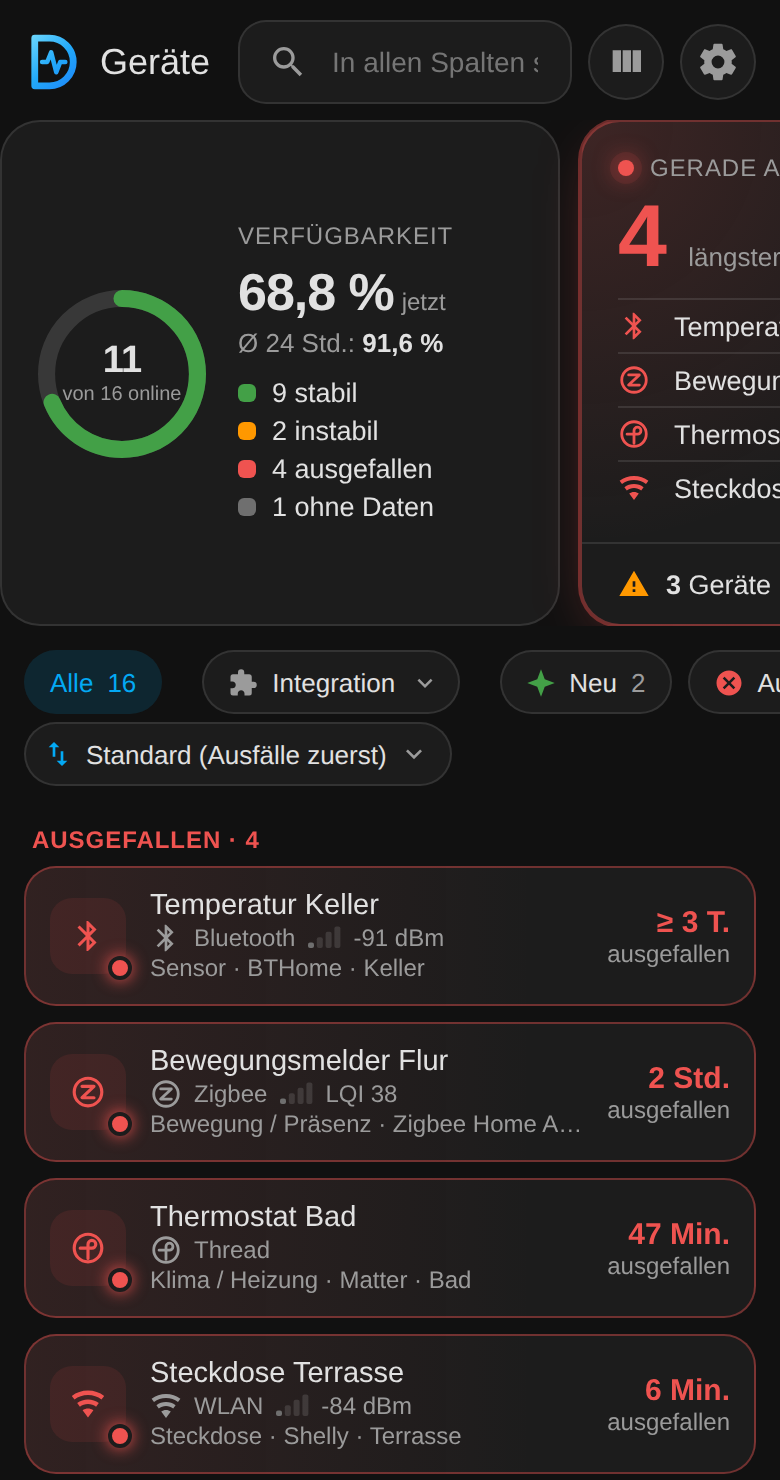
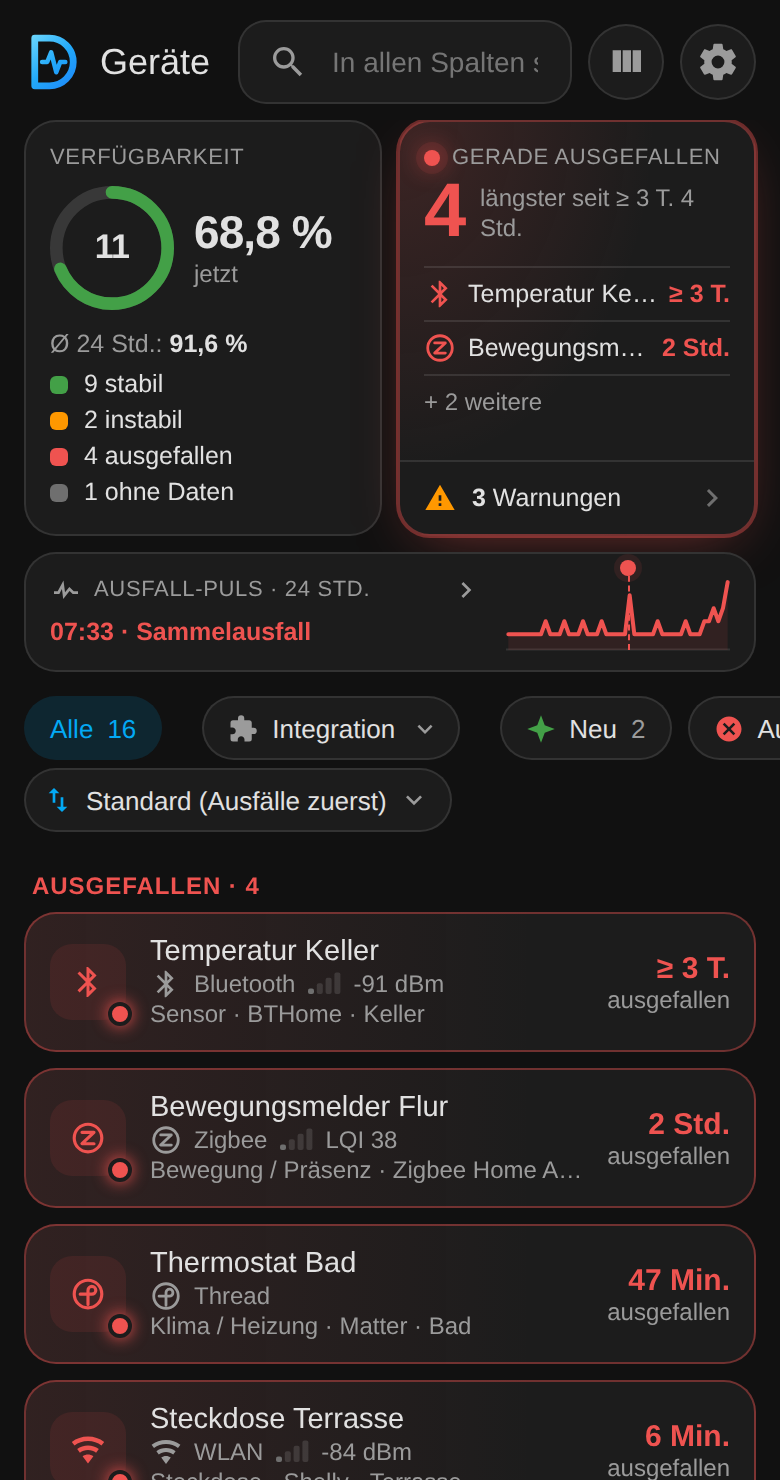
1.26.0: Kopf auf dem Handy, zwei Kacheln nebeneinander
- Bis 600 px Breite stehen "Verfügbarkeit" und "Gerade ausgefallen" kompakt
  nebeneinander (je die halbe Breite, auf dem iPhone 17 185 px), statt drei
  Kacheln zum Wischen (Mockup hero-mobile-v1, V2). Ring 62 px mit Prozentwert
  daneben, die zwei längsten Geräte mit "+ N weitere", kurze Warnzeile
  ("3 Warnungen"); Tablet und Desktop unverändert.
- Ausfall-Puls als schlanke Zeile (Titel, Titelzeile des Sammelausfalls,
  kleine Kurve); der volle Text des Sammelausfalls steht neu im Fenster
  "Unterbrüche in 24 Std." (bis 3, _incidentHtml).
- Tests: neue Suite hero-mobile-e2e.mjs (iPhone 17, 375 pt, Grenze 600/601 px);
  filter-e2e und warn-e2e angepasst; version-e2e tippt robust bei neu
  gezeichneter Update-Zeile. README-Bilder overview-mobile neu.
- manifest 1.26.0, PANEL_VERSION 75, CHANGELOG DE/EN, Docs.

Claude-Session: https://claude.ai/code/session_01U1q7hu4Br2u4E6fFdEJMgU

diff --git a/custom_components/device_panel/panel/device-panel.js b/custom_components/device_panel/panel/device-panel.js
@@ -2172,7 +2172,7 @@ class DevicePanel extends HTMLElement {
     }
     const line = (color, text) => `<div><i style="background:${color}"></i>${escape(text)}</div>`;
     const ring = `<div class="kt ring"><div class="ringwrap">${ringSvg(share, 108, 11)}<div class="c"><div><b>${online.length}</b><span>${escape(this._t("ofTotal", all.length))}</span></div></div></div>
-      <div><div class="k">${escape(this._t("availability"))}${this._scopeHtml()}</div><div class="pct${avgHtml ? " with-avg" : ""}">${pctHtml}</div>${avgHtml}
+      <div class="rtxt"><div class="k">${escape(this._t("availability"))}${this._scopeHtml()}</div><div class="pct${avgHtml ? " with-avg" : ""}">${pctHtml}</div>${avgHtml}
       <div class="lines">${line("var(--dp-success)", this._t("linesOnline", online.length - flaky))}
       ${flaky ? line("var(--dp-warning)", this._t("linesFlaky", flaky)) : ""}
       ${line("var(--dp-error)", this._t("linesOffline", offline.length))}
@@ -2181,13 +2181,14 @@ class DevicePanel extends HTMLElement {
     // viele Geräte eine Warnung haben; antippbar, setzt den Filter "Warnungen".
     const warn = all.filter(devWarn).length;
     const warnLine = warn
-      ? `<button type="button" class="kwarn" data-warn-open aria-label="${escape(this._t("warnOpen"))}"><span class="w-ic">${mdi("alert", 16)}</span><span><b>${warn}</b> ${escape(this._t("warnDevices", warn))}</span><span class="w-go">${mdi("chevronRight", 18)}</span></button>`
+      ? `<button type="button" class="kwarn" data-warn-open aria-label="${escape(this._t("warnOpen"))}"><span class="w-ic">${mdi("alert", 16)}</span><span><b>${warn}</b><span class="w-long"> ${escape(this._t("warnDevices", warn))}</span><span class="w-short"> ${escape(this._t("warnShort", warn))}</span></span><span class="w-go">${mdi("chevronRight", 18)}</span></button>`
       : `<div class="kwarn none"><span class="w-ic">${mdi("check", 16)}</span><span>${escape(this._t("warnNone"))}</span></div>`;
     const off = offline.length
       ? `<div class="kt err offl"><div class="k"><span class="pulse"></span>${escape(this._t("offlineNow"))}${this._scopeHtml()}</div>
         <div class="top"><span class="num">${offline.length}</span><span class="lbl">${escape(this._t("longest", `${offline[0].since_at_least ? "≥ " : ""}${this._duration(offline[0].offline_since)}`))}</span></div>
         <div class="olist">${offline.slice(0, 4).map((d) => `<button type="button" data-open="${escape(d.id)}"><span>${CONN[this._connOf(d)].icon(16)}</span><span class="name">${escape(d.name)}</span><b>${this._durationHtml(d, true)}</b></button>`).join("")}
-        ${offline.length > 4 ? `<div class="more">${escape(this._t("more", offline.length - 4))}</div>` : ""}</div>${warnLine}</div>`
+        ${offline.length > 4 ? `<div class="more more-long">${escape(this._t("more", offline.length - 4))}</div>` : ""}
+        ${offline.length > 2 ? `<div class="more more-short">${escape(this._t("more", offline.length - 2))}</div>` : ""}</div>${warnLine}</div>`
       : `<div class="kt offl"><div class="k">${escape(this._t("offlineNow"))}${this._scopeHtml()}</div>
         <div class="top"><span class="num ok">0</span><span class="lbl">${escape(this._t("allOnline"))}</span></div>
         <div class="durs">${escape(this._t("allOnlineSub"))}</div>${warnLine}</div>`;
@@ -2314,6 +2315,14 @@ class DevicePanel extends HTMLElement {
       <div class="pticks">${ticks}<span class="now-label">${escape(this._t("now"))}</span></div>`;
   }
 
+  // Hinweis auf einen Sammelausfall (mehrere Geräte fast gleichzeitig): in der Kachel
+  // und, seit 1.26.0, im Fenster "Unterbrüche in 24 Std." (auf dem Handy zeigt die
+  // schlanke Kachel nur die Titelzeile).
+  _incidentHtml(inc) {
+    const integ = inc.integration ? this._integrations[inc.integration] || inc.integration : null;
+    return `<div class="inc" title="${escape((inc.names || []).join(", "))}"><b>${escape(this._t("incidentTitle", this._fmtTime(inc.at)))}</b><span class="inc-text">${escape(this._t("incidentText", inc.count, integ))}</span></div>`;
+  }
+
   // Ausfall-Puls: Zahl der Geräte mit Unterbruch je 30 Min. über 24 Std.,
   // dazu der jüngste Sammelausfall (mehrere Geräte fast gleichzeitig).
   _pulseHtml(all) {
@@ -2325,8 +2334,7 @@ class DevicePanel extends HTMLElement {
     const affected = all.filter((d) => d.avail24?.outages).length;
     let note;
     if (inc) {
-      const integ = inc.integration ? this._integrations[inc.integration] || inc.integration : null;
-      note = `<div class="inc" title="${escape((inc.names || []).join(", "))}"><b>${escape(this._t("incidentTitle", this._fmtTime(inc.at)))}</b>${escape(this._t("incidentText", inc.count, integ))}</div>`;
+      note = this._incidentHtml(inc);
     } else if (outages) {
       note = `<div class="pnote plink">${escape(this._t("pulseSummary", outages, affected))}${mdi("chevron", 15)}</div>`;
     } else {
@@ -2407,7 +2415,7 @@ class DevicePanel extends HTMLElement {
     const html = `<div class="dlg-head stat-head"><span class="dlg-avatar">${mdi("pulse", 24)}</span>
         <div class="dlg-title"><h2>${escape(t("pulseWinTitle"))}</h2><div class="dlg-sub">${escape(sub + scope)}</div></div>
         <button type="button" class="dlg-close" data-pulse-close title="${escape(t("close"))}" aria-label="${escape(t("close"))}">${mdi("close", 18)}</button></div>
-      <div class="dlg-body"><div class="avail pwin">${this._pulseChartHtml(p, incidents, true, at)}</div>
+      <div class="dlg-body"><div class="avail pwin">${this._pulseChartHtml(p, incidents, true, at)}${incidents.slice(0, 3).map((inc) => this._incidentHtml(inc)).join("")}</div>
         <p class="dlg-note small">${escape(t("pulseWinHint"))}</p>${pick}
         <h3>${escape(t("pulseWinList"))}</h3>${rows ? `<div class="plist">${rows}</div>` : `<p class="dlg-note">${escape(t("pulseNone"))}</p>`}</div>
       <div class="dlg-actions"><button type="button" class="dlg-btn" data-pulse-close>${escape(t("close"))}</button></div>`;

diff --git a/custom_components/device_panel/panel/styles.js b/custom_components/device_panel/panel/styles.js
@@ -117,6 +117,8 @@ button.kwarn:focus-visible { outline: 2px solid var(--dp-primary); outline-offse
 .olist b { color: var(--dp-error); font-weight: 600; font-variant-numeric: tabular-nums; }
 .olist .name { white-space: nowrap; overflow: hidden; text-overflow: ellipsis; }
 .olist .more { color: var(--dp-text2); font-size: 12.5px; padding-top: 6px; border-top: 1px solid var(--dp-divider); }
+/* Kurzfassungen für das Handy (seit 1.26.0): nur dort sichtbar, siehe @media (max-width: 600px) */
+.olist .more-short, .kwarn .w-short { display: none; }
 
 /* Ausfall-Puls: Zahl der Geräte mit Unterbruch über 24 Std. */
 .kt.pul .k svg { color: var(--dp-text2); }
@@ -1010,16 +1012,48 @@ dialog.stat-dlg::backdrop { background: rgba(0,0,0,0.7); -webkit-backdrop-filter
   .toolbar { padding: 10px 12px 8px; gap: 8px; }
   .toolbar h1 { font-size: 18px; }
   .content { padding: 0 12px 12px; }
-  .hero { display: flex; overflow-x: auto; scroll-snap-type: x mandatory; gap: 10px; margin: 0 -12px; padding: 0 12px; scrollbar-width: none; }
-  .hero::-webkit-scrollbar { display: none; }
-  .hero .kt { min-width: 280px; scroll-snap-align: start; }
-  .hero .kt.pul { min-width: 300px; }
+  /* Kopf auf dem Handy (seit 1.26.0, docs/mockups/hero-mobile-v1, V2): "Verfügbarkeit" und
+     "Gerade ausgefallen" kompakt nebeneinander (je die halbe Breite, auf dem iPhone 17 185 px),
+     der Ausfall-Puls als schlanke Zeile darunter. */
+  .hero { grid-template-columns: repeat(2, minmax(0, 1fr)); gap: 8px; }
+  .hero .kt { padding: 12px; border-radius: 16px; }
+  .hero .kt .k { font-size: 11px; letter-spacing: .03em; gap: 6px; }
   .pchart { height: 64px; }
-  .kt.ring { grid-template-columns: 84px minmax(0, 1fr); }
-  .ringwrap { width: 84px; height: 84px; }
-  .ringwrap svg { width: 84px; height: 84px; }
-  .ringwrap .c b { font-size: 19px; }
-  .ringwrap .c span { font-size: 10px; max-width: 60px; }
+  /* Verfügbarkeit: Ring und Prozentwert nebeneinander, darunter Durchschnitt und Zeilen */
+  .kt.ring { grid-template-columns: 62px minmax(0, 1fr); gap: 0 10px; align-content: start; }
+  .kt.ring .rtxt { display: contents; }
+  .kt.ring .k { grid-column: 1 / -1; margin-bottom: 8px; }
+  .ringwrap { grid-column: 1; grid-row: 2; width: 62px; height: 62px; }
+  .ringwrap svg { width: 62px; height: 62px; }
+  .ringwrap .c b { font-size: 17px; }
+  .ringwrap .c span { display: none; }
+  .kt.ring .pct { grid-column: 2; grid-row: 2; margin: 0; font-size: 23px; line-height: 1.1; }
+  .kt.ring .pct small { display: block; margin: 2px 0 0; }
+  .kt.ring .pavg { grid-column: 1 / -1; margin: 10px 0 2px; font-size: 12.5px; }
+  .kt.ring .lines { grid-column: 1 / -1; margin-top: 2px; }
+  .kt.ring .lines div { font-size: 12.5px; }
+  /* Gerade ausgefallen: kleinere Zahl, die zwei längsten Geräte, kurze Warnzeile */
+  .kt.offl .top { margin: 2px 0 8px; gap: 8px; }
+  .kt.offl .top .num { font-size: 38px; }
+  .kt.offl .top .lbl { font-size: 12px; padding-bottom: 3px; line-height: 1.25; }
+  .kt.offl .durs { display: none; }
+  .kt.offl .olist { margin-bottom: 12px; }
+  .olist button { grid-template-columns: 16px minmax(0, 1fr) auto; gap: 6px; padding: 5px 0; font-size: 12.5px; }
+  .olist button:nth-child(n+3) { display: none; }
+  .olist .more-long { display: none; }
+  .olist .more-short { display: block; font-size: 12px; }
+  .kwarn { margin: auto -12px -12px; padding: 9px 12px; font-size: 12.5px; }
+  .kwarn .w-long { display: none; }
+  .kwarn .w-short { display: inline; }
+  /* Ausfall-Puls: schlanke Zeile mit Titel, Zusammenfassung (oder Titel des Sammelausfalls) und Kurve */
+  .hero .kt.pul { grid-column: 1 / -1; display: grid; grid-template-columns: minmax(0, 1fr) 112px; column-gap: 12px; align-items: center; padding: 10px 12px; }
+  .hero .kt.pul .k { grid-column: 1; grid-row: 1; }
+  .hero .kt.pul .pnote, .hero .kt.pul .inc { grid-column: 1; grid-row: 2; margin: 4px 0 0; }
+  .hero .kt.pul .inc { padding: 0; background: none; }
+  .hero .kt.pul .inc b { display: inline; margin: 0; }
+  .hero .kt.pul .inc .inc-text { display: none; }
+  .hero .kt.pul .pchart { grid-column: 2; grid-row: 1 / span 2; height: 38px; margin: 0; }
+  .hero .kt.pul .pticks { display: none; }
   .pticks .minor, .avail-ticks .minor { display: none; }
   .hstrip { margin: 0 -12px; }
   .hs-in { padding: 0 14px; }

diff --git a/custom_components/device_panel/panel/strings.js b/custom_components/device_panel/panel/strings.js
@@ -47,6 +47,7 @@ export const STRINGS = {
     chipOffline: "Ausgefallen",
     chipWarnings: "Warnungen",
     warnDevices: (n) => (n === 1 ? "Gerät mit Warnung" : "Geräte mit Warnung"),
+    warnShort: (n) => (n === 1 ? "Warnung" : "Warnungen"),
     warnNone: "Keine Warnungen",
     warnOpen: "Nur Geräte mit Warnung anzeigen",
     areaChip: "Bereich",
@@ -818,6 +819,7 @@ export const STRINGS = {
     chipOffline: "Offline",
     chipWarnings: "Warnings",
     warnDevices: (n) => (n === 1 ? "device with a warning" : "devices with a warning"),
+    warnShort: (n) => (n === 1 ? "warning" : "warnings"),
     warnNone: "No warnings",
     warnOpen: "Show only devices with a warning",
     areaChip: "Area",

diff --git a/custom_components/device_panel/const.py b/custom_components/device_panel/const.py
@@ -13,7 +13,7 @@ PANEL_HTML_FILE = "panel.html"
 STATIC_URL_PATH = f"/{DOMAIN}"
 PANEL_STATIC_URL_PATH = f"{STATIC_URL_PATH}/panel"
 # Cache-Buster: bei jeder Änderung unter panel/ von Hand erhöhen.
-PANEL_VERSION = "74"
+PANEL_VERSION = "75"
 PANEL_PAGE_URL = f"{PANEL_STATIC_URL_PATH}/{PANEL_HTML_FILE}?v={PANEL_VERSION}"
 
 # Mitgeliefertes Bild für Push-Meldungen (Companion-App, "icon_url"), wie in

diff --git a/CHANGELOG.de.md b/CHANGELOG.de.md
@@ -7,6 +7,30 @@ Alle nennenswerten Änderungen an dieser Integration stehen in dieser Datei.
 Das Format folgt [Keep a Changelog](https://keepachangelog.com/de/1.1.0/),
 die Versionsnummern folgen [Semantic Versioning](https://semver.org/lang/de/).
 
+## [1.26.0] - 2026-10-07
+
+Kopf-Kacheln nebeneinander auf dem Handy.
+
+### Hinzugefügt
+
+- Das Fenster "Unterbrüche in 24 Std." zeigt jetzt die Sammelausfälle (bis zu 3) mit
+  vollem Text über der Geräteliste; bisher standen sie nur in der Kachel.
+
+### Geändert
+
+- Kopf auf dem Handy (bis 600 px Breite; Wunsch des Nutzers, Mockup `hero-mobile-v1`,
+  V2): "Verfügbarkeit" und "Gerade ausgefallen" stehen jetzt nebeneinander, je die halbe
+  Breite (185 px auf einem iPhone 17), statt drei Kacheln zum Wischen. Tablet und Desktop
+  bleiben wie sie waren.
+  - Verfügbarkeit: kleinerer Ring (nur die Zahl) mit dem Prozentwert daneben,
+    darunter der Durchschnitt über 24 Std. und die Zeilen.
+  - Gerade ausgefallen: kleinere Zahl, die zwei längsten Geräte und "+ 2 weitere",
+    eine kurze Warnzeile ("3 Warnungen"); der Satz "Kein Gerät ist gerade
+    ausgefallen." entfällt (die 0 und "Alles online" sagen dasselbe).
+  - Ausfall-Puls: eine schlanke Zeile unter den zwei Kacheln mit Titel, der Titelzeile
+    des Sammelausfalls (oder der Zusammenfassung) und einer kleinen Kurve; Antippen
+    öffnet das Fenster wie bisher.
+
 ## [1.25.0] - 2026-10-06
 
 Gerätetyp pro Integration.
@@ -1694,6 +1718,7 @@ Erste Vorabversion.
 - Tests gegen ein echtes Home Assistant und Playwright-Suiten für das Panel,
   GitHub Actions für die Prüfungen von HACS und hassfest sowie die Tests.
 
+[1.26.0]: https://github.com/Diegofuego871/ha-device-panel/releases/tag/v1.26.0
 [1.25.0]: https://github.com/Diegofuego871/ha-device-panel/releases/tag/v1.25.0
 [1.23.0]: https://github.com/Diegofuego871/ha-device-panel/releases/tag/v1.23.0
 [1.22.0]: https://github.com/Diegofuego871/ha-device-panel/releases/tag/v1.22.0

diff --git a/docs/HANDOVER.md b/docs/HANDOVER.md
@@ -3,7 +3,7 @@
 Einstieg für jede neue Claude-Code-Session. Zuerst diese Datei lesen, dann
 `CLAUDE.md`, `docs/CONCEPT.md`, `docs/LEARNINGS.md`, `docs/DESIGN.md`.
 
-## Stand (1.25.0, Einstellungen in fünf Abschnitten)
+## Stand (1.26.0, Einstellungen in fünf Abschnitten)
 
 - Repository `Diegofuego871/ha-device-panel`, nur Branch `main` (siehe
   `CLAUDE.md`, "Git und Releases").
@@ -383,6 +383,15 @@ Einstieg für jede neue Claude-Code-Session. Zuerst diese Datei lesen, dann
    nimmt jetzt den Optionsnamen (`data-drag`, `data-drag-list`), feste Zeile
    `fixed` (Schalter an, ohne `data-list`), `_dragOrder()`; Standardfolge wird
    als `[]` gespeichert. Tests: `chiporder-e2e.mjs`, `test_update_check.py`.
+   Kopf auf dem Handy `1.26.0` (Nutzer, 2026-10-07, Mockup `docs/mockups/hero-mobile-v1`, V2): bis 600 px
+   stehen "Verfügbarkeit" (`.kt.ring`, Ring 62 px, Text über `.rtxt` mit `display: contents` ins Raster) und
+   "Gerade ausgefallen" (`.kt.offl`) je halbe Breite nebeneinander, der Puls (`.kt.pul`) ist eine schlanke
+   Zeile (Raster: Titel und Hinweis links, Kurve rechts, `.pticks` aus, `.inc-text` aus). Kurzfassungen
+   stehen doppelt im Markup und werden per CSS umgeschaltet (`.kwarn .w-long/.w-short`, `.olist .more-long/
+   .more-short`, Text `warnShort`); Liste auf dem Handy nur die zwei längsten Geräte. Der Text des
+   Sammelausfalls (`_incidentHtml`) steht zusätzlich im Puls-Fenster (bis 3). Tablet und Desktop unverändert.
+   Test: `hero-mobile-e2e.mjs` (iPhone 17, 375 pt, Grenze 600/601 px); `filter-e2e.mjs` und `warn-e2e.mjs`
+   angepasst. `docs/screenshots/*/overview-mobile.png` neu.
    Gerätetyp pro Integration `1.25.0` (Nutzer, 2026-10-06, ohne Mockup, nach dem Muster der Verbindungsart
    pro Integration): Option `type_integrations` {Domain: Typ} (`options_api.type_map`, auch im
    Optionsdialog); Vorrang in `devices.effective_type`: von Hand am Gerät, dann

diff --git a/CHANGELOG.md b/CHANGELOG.md
@@ -7,6 +7,29 @@ All notable changes to this integration are documented in this file.
 The format is based on [Keep a Changelog](https://keepachangelog.com/en/1.1.0/),
 and this project adheres to [Semantic Versioning](https://semver.org/).
 
+## [1.26.0] - 2026-10-07
+
+Header tiles side by side on the phone.
+
+### Added
+
+- The window "Outages in 24 h" now shows the group outage notes (up to 3) with their
+  full text, above the device list; so far they were only on the tile.
+
+### Changed
+
+- Header on the phone (up to 600 px wide; requested by the user, mockup
+  `hero-mobile-v1`, V2): "Availability" and "Offline right now" now sit side by
+  side, each half the width (185 px on an iPhone 17), instead of three tiles to swipe
+  through. Tablet and desktop stay as they were.
+  - Availability: smaller ring (the number only) with the percentage beside it,
+    the 24 h average and the lines below.
+  - Offline right now: smaller number, the two longest devices and "+ 2 more", a short
+    warning line ("3 warnings"); the sentence "No device is offline right now." is
+    left out (the 0 and "All online" say the same).
+  - Outage pulse: a slim row under the two tiles with the title, the headline of the
+    group outage (or the summary) and a small curve; a tap opens the window as before.
+
 ## [1.25.0] - 2026-10-06
 
 Device type per integration.
@@ -1631,6 +1654,7 @@ First pre-release.
 - Tests against a real Home Assistant and Playwright suites for the panel,
   GitHub Actions for HACS/hassfest validation and tests.
 
+[1.26.0]: https://github.com/Diegofuego871/ha-device-panel/releases/tag/v1.26.0
 [1.25.0]: https://github.com/Diegofuego871/ha-device-panel/releases/tag/v1.25.0
 [1.23.0]: https://github.com/Diegofuego871/ha-device-panel/releases/tag/v1.23.0
 [1.22.0]: https://github.com/Diegofuego871/ha-device-panel/releases/tag/v1.22.0

diff --git a/docs/DESIGN.md b/docs/DESIGN.md
@@ -210,6 +210,10 @@ Status: online = `--dp-success` (Punkt + Pill "Verbunden"), ausgefallen =
   eine Benachrichtigung auf dem Handy (App-Zeile mit Logo, Titel fett,
   Text, Knöpfe in Primärfarbe), darunter eine Kurzzeile. Schalter des
   Inhalts in zwei Spalten, auf dem Handy in einer.
+- Kopf auf dem Handy (seit 1.26.0, `docs/mockups/hero-mobile-v1`, V2): zwei kompakte Kacheln
+  nebeneinander (je 185 px bei 402 pt; Ring 62 px mit Prozentwert daneben, Zahl 38 px, zwei
+  Geräte, kurze Warnzeile "3 Warnungen"), darunter der Puls als schlanke Zeile (Titel,
+  Titelzeile des Sammelausfalls, Kurve 112 x 38 px). Kein Wischen mehr; ab 601 px unverändert.
 - Gerätetyp pro Integration (seit 1.25.0, Platzierung nach Bildschirmfoto des Nutzers, ohne
   Mockup): Spalte "Typ" neben "Anzeigen" in der Liste der Integrationen, je Zeile Logo, Name,
   Zahl der Geräte mit der Erkennung ("erkannt: 2 Steckdose") und eine Auswahl "Automatisch" plus

diff --git a/docs/mockups/hero-mobile-v1/README.md b/docs/mockups/hero-mobile-v1/README.md
@@ -40,6 +40,10 @@ Beginn der Geräteliste, gemessen vom oberen Fensterrand im 874 px hohen Fenster
 | **V2** | 540 px (+25 bis 35 px) | ja, als Zeile mit Kurve und Titel des Sammelausfalls | nein |
 | V3 | 494 px (−10 bis −25 px) | erst nach dem Wischen | ja, für den Puls |
 
+## Entscheid des Nutzers: V2 (2026-10-07)
+
+Umgesetzt in 1.26.0, mit dem vollen Text des Sammelausfalls im Puls-Fenster.
+
 ## Empfehlung: V2
 
 Alle drei Angaben bleiben ohne Wischen sichtbar, und die Liste beginnt kaum tiefer als heute
